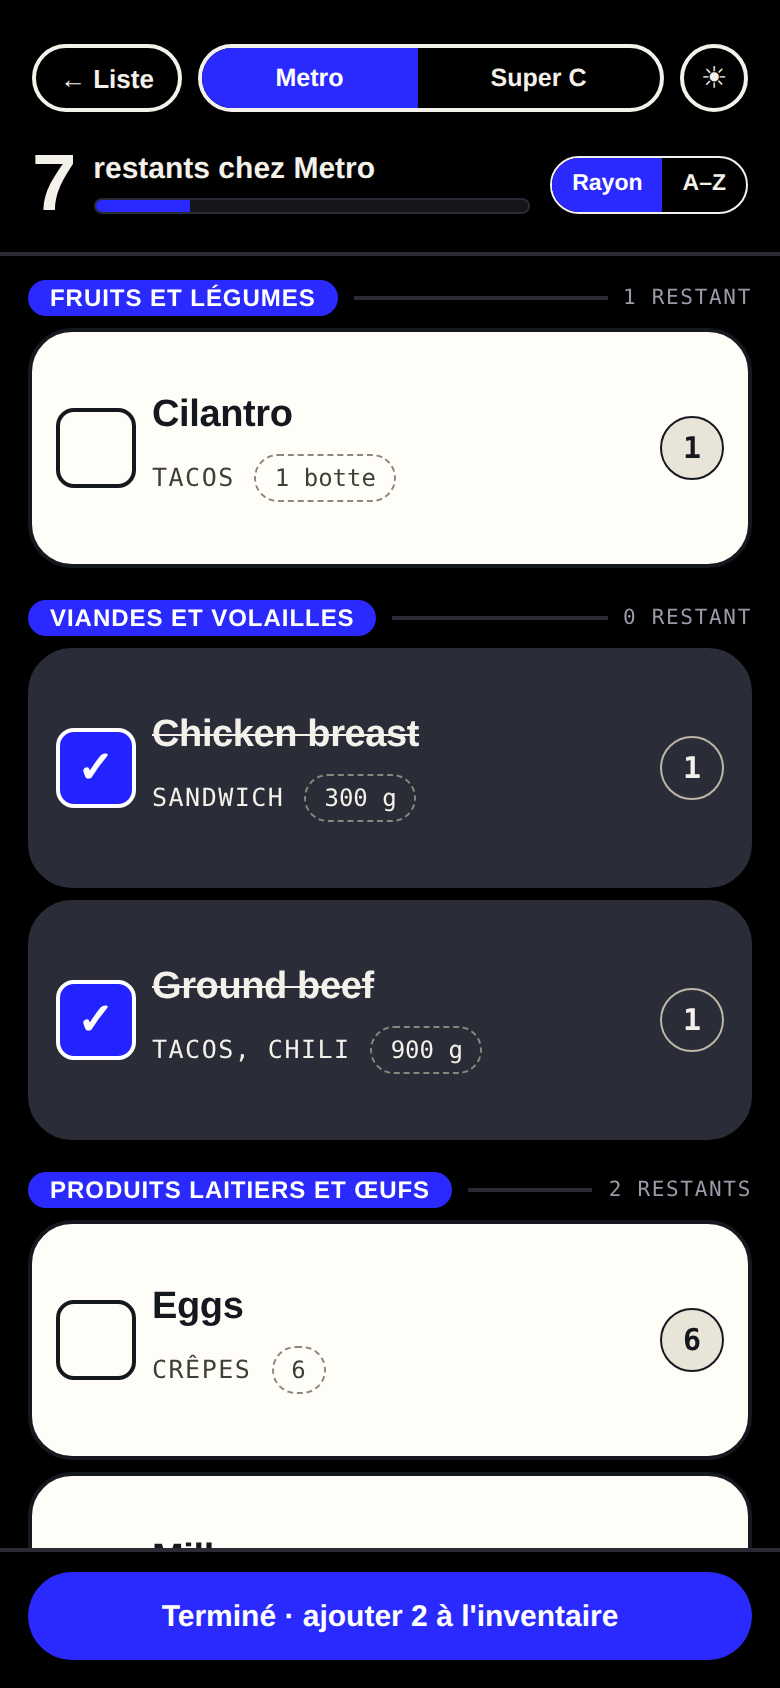
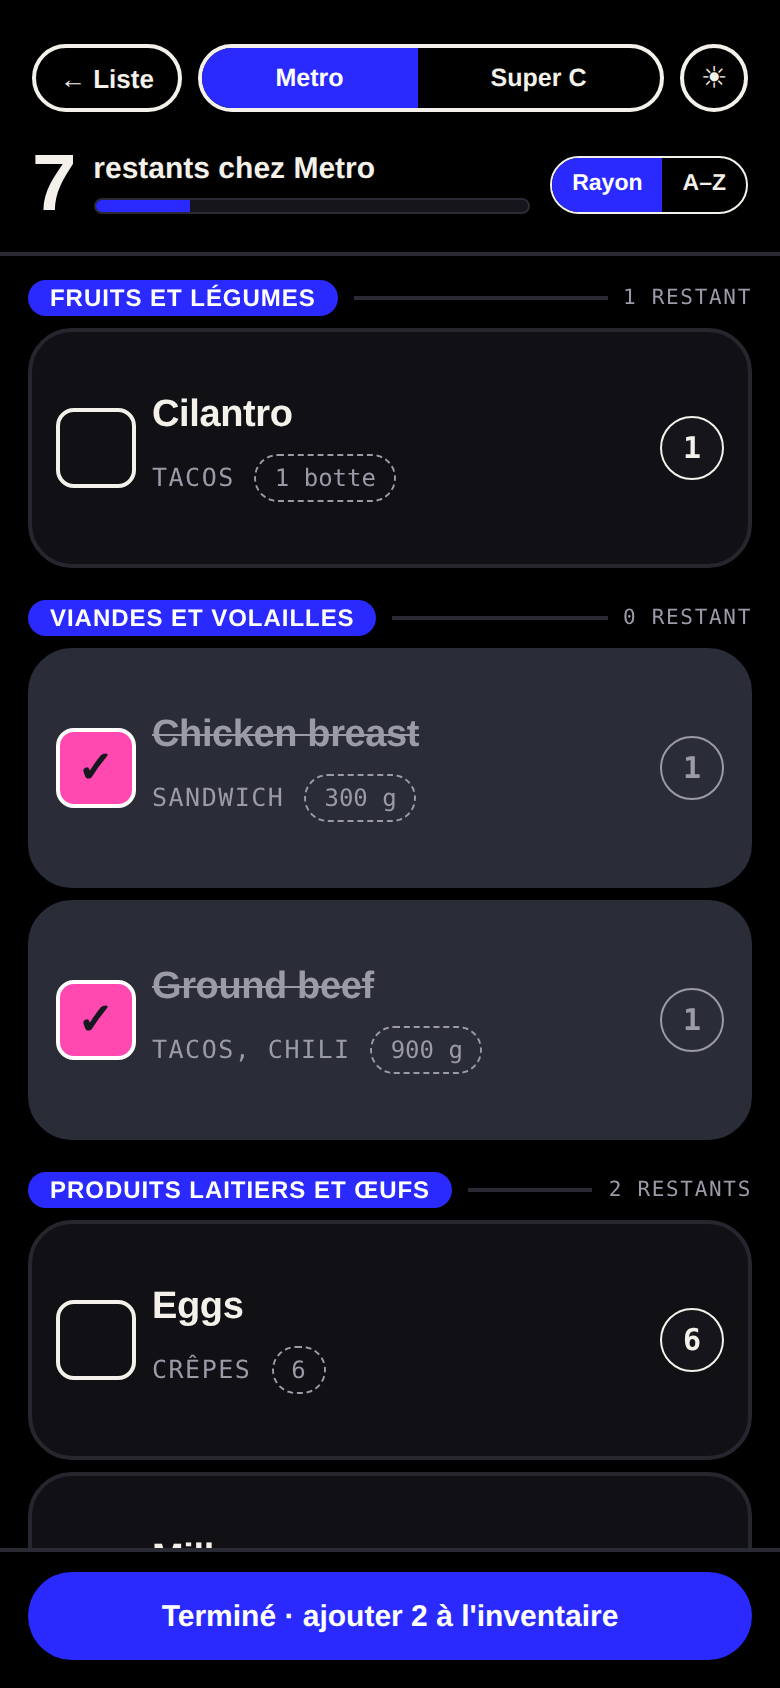
Store mode: dark theme is dark all the way through, pink checkmarks
- Dark rows, light text and dark number and quantity pills instead of paper
  rows on a dark screen.
- A checked row's box is pink (white border, ink tick); checked text fades.
- Test updated for the dark look and the pink box.

Claude-Session: https://claude.ai/code/session_01P6gKk3TQsEzWZVFPMy5Arm

diff --git a/client/src/index.css b/client/src/index.css
@@ -10318,29 +10318,60 @@ button.riso-protein-bar {
 
 
 
-/* Checked, in the dark Store mode: the row goes dark, the box green with an ink tick. */
+/* The dark Store mode is dark all the way through: dark rows, light text, dark
+   pills. A checked row goes a shade lighter and its box turns pink. */
+.store-mode[data-sm-theme="dark"] .store-mode-row {
+  background: var(--sm-card);
+  border-color: var(--sm-card-border);
+  color: var(--sm-text);
+}
+
+.store-mode[data-sm-theme="dark"] .store-mode-check {
+  background: transparent;
+  border-color: var(--sm-text);
+}
+
+.store-mode[data-sm-theme="dark"] .store-mode-brand {
+  color: var(--sm-text);
+}
+
+.store-mode[data-sm-theme="dark"] .store-mode-recipes {
+  color: var(--sm-muted);
+}
+
+.store-mode[data-sm-theme="dark"] .store-mode-need {
+  border-color: var(--sm-muted);
+  color: var(--sm-muted);
+}
+
+.store-mode[data-sm-theme="dark"] .store-mode-qty {
+  background: var(--sm-track);
+  border-color: var(--sm-text);
+  color: var(--sm-text);
+}
+
 .store-mode[data-sm-theme="dark"] .store-mode-row.on {
   background: var(--riso-store-checked);
   border-color: var(--riso-store-checked);
-  color: var(--riso-canvas);
 }
 
 .store-mode[data-sm-theme="dark"] .store-mode-row.on .store-mode-check {
-  background: var(--riso-accent);
+  background: var(--riso-hot);
   border-color: var(--riso-on-accent);
-  color: var(--riso-on-accent);
+  color: var(--riso-ink);
 }
 
 .store-mode[data-sm-theme="dark"] .store-mode-row.on .store-mode-brand,
 .store-mode[data-sm-theme="dark"] .store-mode-row.on .store-mode-need,
-.store-mode[data-sm-theme="dark"] .store-mode-row.on .store-mode-recipes {
-  color: var(--riso-canvas);
+.store-mode[data-sm-theme="dark"] .store-mode-row.on .store-mode-recipes,
+.store-mode[data-sm-theme="dark"] .store-mode-row.on .store-mode-name {
+  color: var(--sm-muted);
 }
 
 .store-mode[data-sm-theme="dark"] .store-mode-row.on .store-mode-qty {
   background: transparent;
-  border-color: var(--riso-dash-strong);
-  color: var(--riso-canvas);
+  border-color: var(--sm-muted);
+  color: var(--sm-muted);
 }
 
 /* Checked, in the light Store mode: the row greys, the box is blue. */

diff --git a/e2e/grocery-item.spec.js b/e2e/grocery-item.spec.js
@@ -268,12 +268,18 @@ test.describe("on a phone", () => {
     await expect(beef.locator(".store-mode-need")).toHaveText("750 g");
     await expect(beef.locator(".store-mode-qty")).toHaveText("1");
     await expect(beef.locator(".riso-row-delete, .riso-row-toinv")).toHaveCount(0); // no × and no inventory button here
-    // No sale tag here, and a checked row's box is blue in the dark theme.
+    // No sale tag here, and a checked row's box is pink in the dark theme.
     await expect(mode.locator(".store-mode-sale, .riso-row-deal")).toHaveCount(0);
+    // The dark theme is dark all the way through: a dark row, light text, a dark number pill.
+    const look = await beef.evaluate((e) => {
+      const c = (sel) => getComputedStyle(e.querySelector(sel));
+      return { row: getComputedStyle(e).backgroundColor, name: c(".store-mode-name").color, qty: c(".store-mode-qty").backgroundColor };
+    });
+    expect(look).toEqual({ row: "rgb(17, 17, 21)", name: "rgb(244, 241, 234)", qty: "rgb(21, 21, 27)" });
     await beef.click();
     await expect(beef).toHaveClass(/\bon\b/);
     const box = await beef.locator(".store-mode-check").evaluate((e) => [getComputedStyle(e).backgroundColor, getComputedStyle(e).borderTopColor]);
-    expect(box).toEqual(["rgb(35, 35, 255)", "rgb(255, 255, 255)"]); // blue, with a white border
+    expect(box).toEqual(["rgb(255, 72, 176)", "rgb(255, 255, 255)"]); // pink, with a white border
     const cut = await mode.locator(".store-mode-name").evaluateAll((els) => els.some((e) => e.scrollWidth > e.clientWidth + 1 || e.scrollHeight > e.clientHeight + 1));
     expect(cut).toBe(false);
   });
